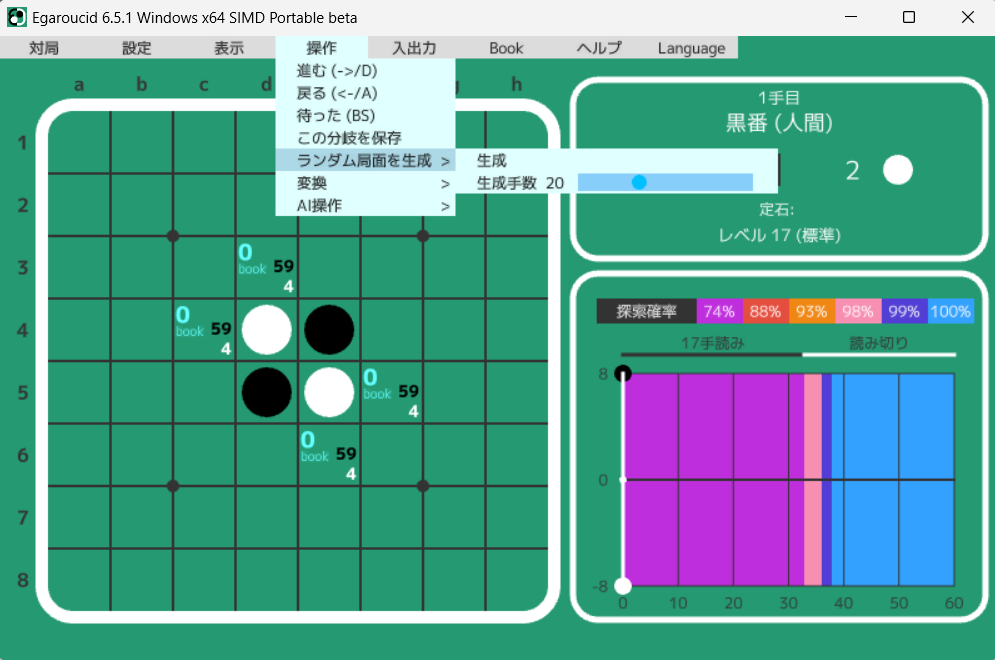
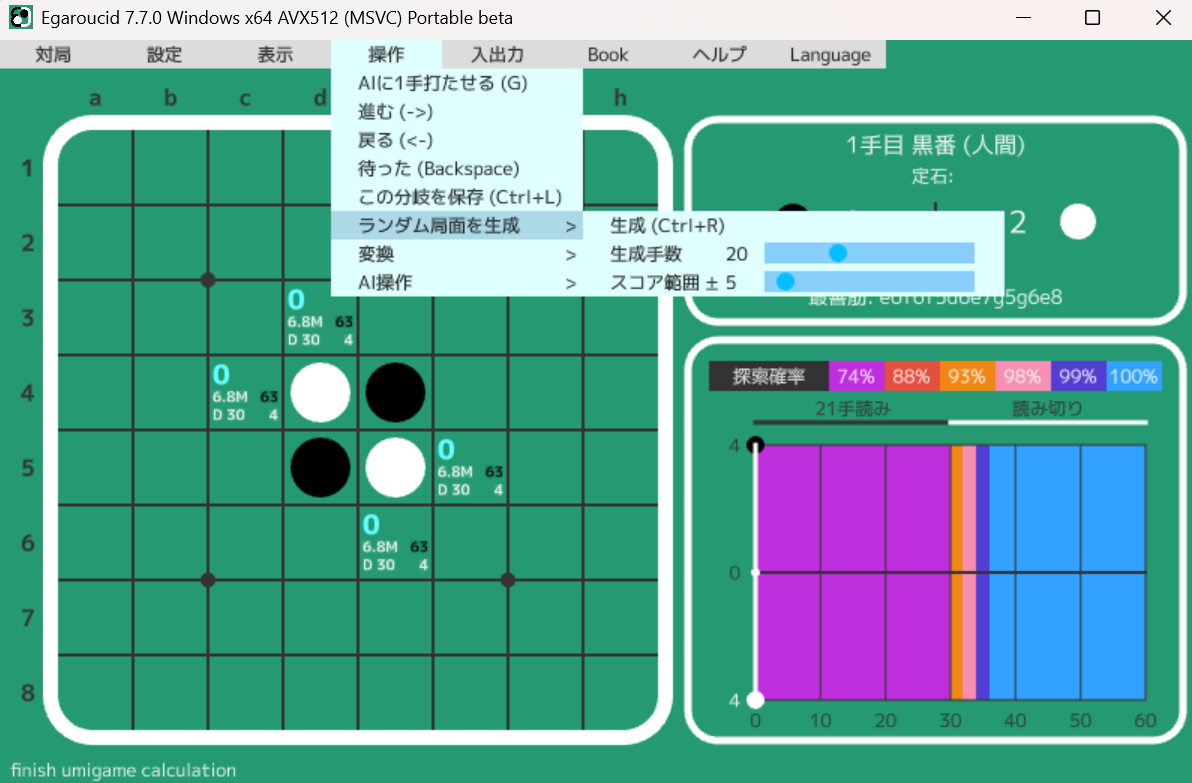
update usage: random board generator

diff --git a/web_resources/ja/usage/index.md b/web_resources/ja/usage/index.md
@@ -755,13 +755,22 @@ AIの計算中、ログには評価値が現れるので、本気で対戦した
 
 生成ボタンを押すと自動で中盤局面が生成されます。また、生成手数を変更することで、何手目の局面を生成するかを選択できます。
 
-ランダム局面生成はショートカットキーとしてRを割り当てています。
+ランダム局面生成はショートカットキーとしてCtrl+Rを割り当てています。
 
 この機能では、各着手に対して68%の確率で4石損以下、95%の確率で8石損以下の手を選びます。
 
 <div class="centering_box">
     <img class="pic2" src="img/generate_random_board.png">
 </div>
+#### スコア範囲
+
+生成された局面がどれくらい形勢の傾いたものになるかを「スコア範囲」で設定できます。上の画像だと±5となっていますが、これは生成された局面が黒+5から白+5までに収まるようにするという意味です。
+
+スコア範囲は生成された局面のみについての設定なので、その局面に至る途中の局面ではスコア範囲を超える場合もあります。
+
+また、内部的にはレベル15を使ってスコア範囲に盤面が収まるかを判定しているため、厳密に生成盤面がスコア範囲に収まるかは保証できません。
+
+#### 手の選び方
 
 この機能は、指定された手数までの各着手に対して以下の計算によって手を選んでいます。
 
